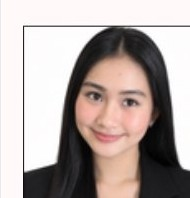
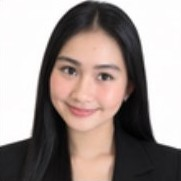
Fix ID photo alignment: recrop clean seamless portrait and use pixel-perfect gap cutlines

diff --git a/src/components/customer/IdPictureForm.tsx b/src/components/customer/IdPictureForm.tsx
@@ -152,10 +152,10 @@ export default function IdPictureForm({
               </div>
 
               {/* The exact border cutline grid */}
-              <div className="border border-black bg-white overflow-hidden shadow-xs">
+              <div className="bg-black p-[1px] shadow-sm overflow-hidden mx-auto">
                 {/* Package 4 (6pcs 2x2) - EXACT match to user reference screenshot */}
                 {spec.packageType === 'Package 4 (6pcs 2x2) - ₱50' && (
-                  <div className="grid grid-cols-3 divide-x divide-y divide-black">
+                  <div className="grid grid-cols-3 gap-[1px]">
                     {Array.from({ length: 6 }).map((_, i) => (
                       <div key={`p4-${i}`} className="relative aspect-square overflow-hidden bg-white">
                         <Image src={photoSrc} alt="2x2 ID Photo" fill className="object-cover object-top" sizes="120px" priority />
@@ -166,15 +166,15 @@ export default function IdPictureForm({
 
                 {/* Package 1 (2pcs 2x2 & 4pcs 1x1) */}
                 {spec.packageType === 'Package 1 (2pcs 2x2 & 4pcs 1x1) - ₱50' && (
-                  <div className="divide-y divide-black">
-                    <div className="grid grid-cols-2 divide-x divide-black">
+                  <div className="flex flex-col gap-[1px]">
+                    <div className="grid grid-cols-2 gap-[1px]">
                       {[0, 1].map((i) => (
                         <div key={`p1-2x2-${i}`} className="relative aspect-square overflow-hidden bg-white">
                           <Image src={photoSrc} alt="2x2 ID Photo" fill className="object-cover object-top" sizes="160px" priority />
                         </div>
                       ))}
                     </div>
-                    <div className="grid grid-cols-4 divide-x divide-black">
+                    <div className="grid grid-cols-4 gap-[1px]">
                       {[0, 1, 2, 3].map((i) => (
                         <div key={`p1-1x1-${i}`} className="relative aspect-square overflow-hidden bg-white">
                           <Image src={photoSrc} alt="1x1 ID Photo" fill className="object-cover object-top" sizes="80px" priority />
@@ -186,15 +186,15 @@ export default function IdPictureForm({
 
                 {/* Package 2 (4pcs 2x2 & 3pcs 1x1) */}
                 {spec.packageType === 'Package 2 (4pcs 2x2 & 3pcs 1x1) - ₱50' && (
-                  <div className="divide-y divide-black">
-                    <div className="grid grid-cols-2 divide-x divide-y divide-black">
+                  <div className="flex flex-col gap-[1px]">
+                    <div className="grid grid-cols-2 gap-[1px]">
                       {[0, 1, 2, 3].map((i) => (
                         <div key={`p2-2x2-${i}`} className="relative aspect-square overflow-hidden bg-white">
                           <Image src={photoSrc} alt="2x2 ID Photo" fill className="object-cover object-top" sizes="150px" priority />
                         </div>
                       ))}
                     </div>
-                    <div className="grid grid-cols-3 divide-x divide-black">
+                    <div className="grid grid-cols-3 gap-[1px]">
                       {[0, 1, 2].map((i) => (
                         <div key={`p2-1x1-${i}`} className="relative aspect-square overflow-hidden bg-white">
                           <Image src={photoSrc} alt="1x1 ID Photo" fill className="object-cover object-top" sizes="100px" priority />
@@ -206,7 +206,7 @@ export default function IdPictureForm({
 
                 {/* Package 3 (8pcs 1x1) */}
                 {spec.packageType === 'Package 3 (8pcs 1x1) - ₱50' && (
-                  <div className="grid grid-cols-4 divide-x divide-y divide-black">
+                  <div className="grid grid-cols-4 gap-[1px]">
                     {Array.from({ length: 8 }).map((_, i) => (
                       <div key={`p3-${i}`} className="relative aspect-square overflow-hidden bg-white">
                         <Image src={photoSrc} alt="1x1 ID Photo" fill className="object-cover object-top" sizes="80px" priority />
@@ -217,7 +217,7 @@ export default function IdPictureForm({
 
                 {/* Package 5 (6pcs Passport Size) */}
                 {spec.packageType === 'Package 5 (6pcs Passport Size) - ₱65' && (
-                  <div className="grid grid-cols-3 divide-x divide-y divide-black">
+                  <div className="grid grid-cols-3 gap-[1px]">
                     {Array.from({ length: 6 }).map((_, i) => (
                       <div key={`p5-${i}`} className="relative aspect-[35/45] overflow-hidden bg-white">
                         <Image src={photoSrc} alt="Passport ID Photo" fill className="object-cover object-top" sizes="120px" priority />
@@ -228,15 +228,15 @@ export default function IdPictureForm({
 
                 {/* Package 6 (4pcs Passport & 2pcs 2x2) */}
                 {spec.packageType === 'Package 6 (4pcs Passport Size & 2pcs 2x2) - ₱60' && (
-                  <div className="divide-y divide-black">
-                    <div className="grid grid-cols-4 divide-x divide-black">
+                  <div className="flex flex-col gap-[1px]">
+                    <div className="grid grid-cols-4 gap-[1px]">
                       {[0, 1, 2, 3].map((i) => (
                         <div key={`p6-pass-${i}`} className="relative aspect-[35/45] overflow-hidden bg-white">
                           <Image src={photoSrc} alt="Passport ID Photo" fill className="object-cover object-top" sizes="85px" priority />
                         </div>
                       ))}
                     </div>
-                    <div className="grid grid-cols-2 divide-x divide-black">
+                    <div className="grid grid-cols-2 gap-[1px]">
                       {[0, 1].map((i) => (
                         <div key={`p6-2x2-${i}`} className="relative aspect-square overflow-hidden bg-white">
                           <Image src={photoSrc} alt="2x2 ID Photo" fill className="object-cover object-top" sizes="160px" priority />
@@ -248,15 +248,15 @@ export default function IdPictureForm({
 
                 {/* Package 7 (3pcs Passport & 6pcs 1x1) */}
                 {spec.packageType === 'Package 7 (3pcs Passport Size & 6pcs 1x1) - ₱75' && (
-                  <div className="divide-y divide-black">
-                    <div className="grid grid-cols-3 divide-x divide-black">
+                  <div className="flex flex-col gap-[1px]">
+                    <div className="grid grid-cols-3 gap-[1px]">
                       {[0, 1, 2].map((i) => (
                         <div key={`p7-pass-${i}`} className="relative aspect-[35/45] overflow-hidden bg-white">
                           <Image src={photoSrc} alt="Passport ID Photo" fill className="object-cover object-top" sizes="110px" priority />
                         </div>
                       ))}
                     </div>
-                    <div className="grid grid-cols-6 divide-x divide-black">
+                    <div className="grid grid-cols-6 gap-[1px]">
                       {[0, 1, 2, 3, 4, 5].map((i) => (
                         <div key={`p7-1x1-${i}`} className="relative aspect-square overflow-hidden bg-white">
                           <Image src={photoSrc} alt="1x1 ID Photo" fill className="object-cover object-top" sizes="60px" priority />
@@ -268,7 +268,7 @@ export default function IdPictureForm({
 
                 {/* Package 8 (6pcs 1.5x1.5) */}
                 {spec.packageType === 'Package 8 (6pcs 1.5x1.5) - ₱50' && (
-                  <div className="grid grid-cols-3 divide-x divide-y divide-black">
+                  <div className="grid grid-cols-3 gap-[1px]">
                     {Array.from({ length: 6 }).map((_, i) => (
                       <div key={`p8-${i}`} className="relative aspect-square overflow-hidden bg-white">
                         <Image src={photoSrc} alt="1.5x1.5 ID Photo" fill className="object-cover object-top" sizes="120px" priority />
